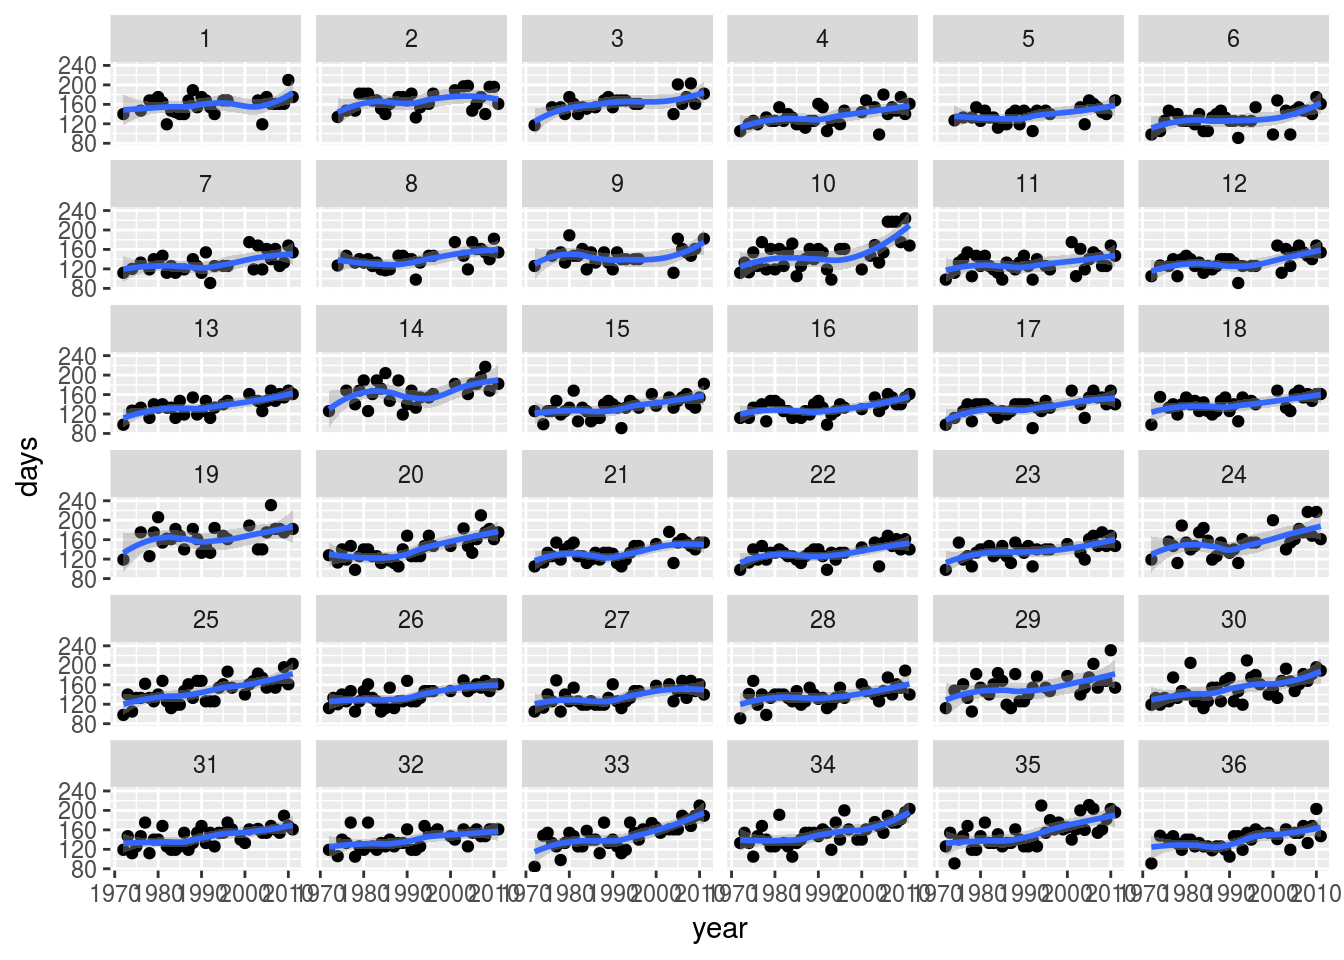
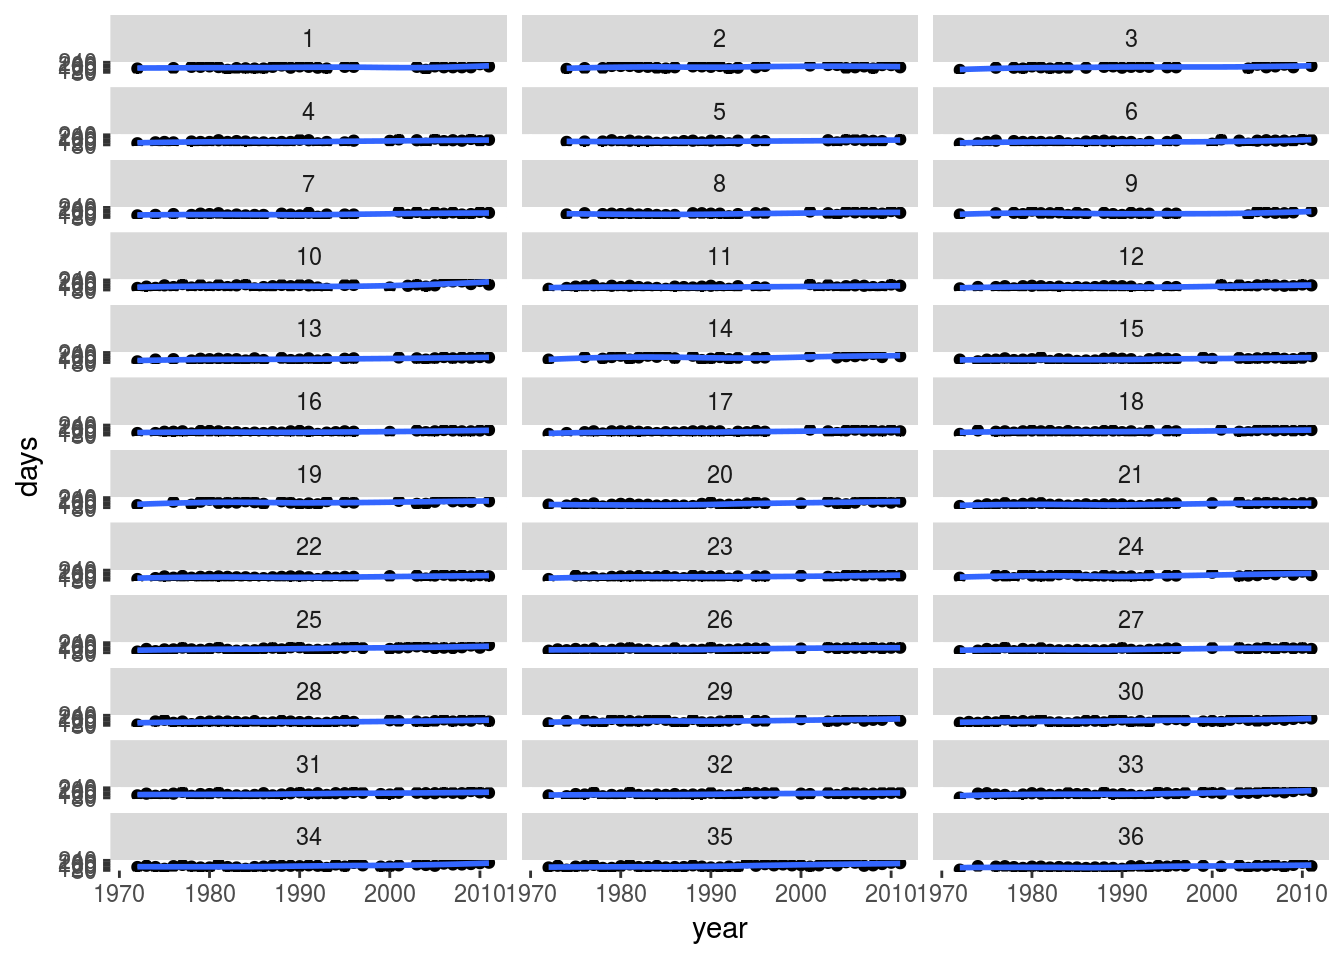
formatting

Changed region(s): [[0.0312, 0.0, 1.0, 0.9375]]

diff --git a/docs/2017/12/16/testing-for-time-trend/index.html b/docs/2017/12/16/testing-for-time-trend/index.html
@@ -167,7 +167,7 @@ xx=arima.sim(list(ar=0.8),100) </code></pre>
 <pre><code>## Don&#39;t know how to automatically pick scale for object of type ts. Defaulting to continuous.</code></pre>
 <pre><code>## `geom_smooth()` using method = &#39;loess&#39;</code></pre>
 <p><img src="../../../../post/2017-12-16-testing-for-time-trend_files/figure-html/unnamed-chunk-8-1.png" width="672" /></p>
-<p>This is autocorrelated: if it’s above the smooth trend, it’s more likely than not to stay there, and likewise below. We ought to be able to see the lag-1 autocorrelation that we built into the series. This was an AR series, so the appropriate plot is of the partial autocorrelation function:</p>
+<p>This is autocorrelated: if it’s above the smooth trend, it’s more likely than not to stay there, and likewise below. Note the long “excursions” above and below the trend. We ought to be able to see the lag-1 autocorrelation that we built into the series. This was an AR series, so the appropriate plot is of the partial autocorrelation function:</p>
 <pre class="r"><code>pacf(xx)</code></pre>
 <p><img src="../../../../post/2017-12-16-testing-for-time-trend_files/figure-html/unnamed-chunk-9-1.png" width="672" /></p>
 <p>The big spike is at lag 1, so we infer that we have an AR(1) series, which is what we generated.</p>
@@ -251,7 +251,7 @@ icefree_2</code></pre>
 <p>and then use it in a group-by and summarize. <code>knitr::kable</code> produces a nicely-formatted table:</p>
 <pre class="r"><code>icefree_2 %&gt;% group_by(location) %&gt;% 
   summarize(missing=nmiss(days)) %&gt;% 
-  knitr::kable()</code></pre>
+  knitr::kable(align=&quot;rr&quot;)</code></pre>
 <table>
 <thead>
 <tr class="header">
@@ -454,7 +454,7 @@ y</code></pre>
   do(test=kendall_Z_adjusted(.$days)) %&gt;%
   mutate(ratio=test$ratio,pval=test$P_value,padj=test$P_value_adj) %&gt;% 
   select(-test) %&gt;% 
-  knitr::kable()</code></pre>
+  knitr::kable(align=&quot;rrrr&quot;)</code></pre>
 <table>
 <thead>
 <tr class="header">
@@ -685,8 +685,8 @@ y</code></pre>
 </table>
 <p>Location 29 has a little positive autocorrelation. It isn’t large, but it’s enough to turn an apparently significant trend into a non-significant one.</p>
 <p>On the other hand, location 2 has a very negative autocorrelation. This turns a non-significant trend into a strongly significant one.</p>
-<p>Perhaps the most distressing conclusion here is that those adjusted P-values are mostly so small. At most of the locations, there is a significant trend in ice-free period. We finish with a plot that might be too small to see:</p>
-<pre class="r"><code>ggplot(icefree_2,aes(x=year,y=days))+geom_point()+geom_smooth()+facet_wrap(~location)</code></pre>
+<p>Perhaps the most distressing conclusion here is that those adjusted P-values are mostly so small. At most of the locations, there is a significant trend in ice-free period. We finish with a plot:</p>
+<pre class="r"><code>ggplot(icefree_2,aes(x=year,y=days))+geom_point()+geom_smooth()+facet_wrap(~location,ncol=3)</code></pre>
 <pre><code>## `geom_smooth()` using method = &#39;loess&#39;</code></pre>
 <pre><code>## Warning: Removed 290 rows containing non-finite values (stat_smooth).</code></pre>
 <pre><code>## Warning: Removed 290 rows containing missing values (geom_point).</code></pre>

diff --git a/content/post/2017-12-16-testing-for-time-trend.html b/content/post/2017-12-16-testing-for-time-trend.html
@@ -82,7 +82,7 @@ xx=arima.sim(list(ar=0.8),100) </code></pre>
 <pre><code>## Don&#39;t know how to automatically pick scale for object of type ts. Defaulting to continuous.</code></pre>
 <pre><code>## `geom_smooth()` using method = &#39;loess&#39;</code></pre>
 <p><img src="/post/2017-12-16-testing-for-time-trend_files/figure-html/unnamed-chunk-8-1.png" width="672" /></p>
-<p>This is autocorrelated: if it’s above the smooth trend, it’s more likely than not to stay there, and likewise below. We ought to be able to see the lag-1 autocorrelation that we built into the series. This was an AR series, so the appropriate plot is of the partial autocorrelation function:</p>
+<p>This is autocorrelated: if it’s above the smooth trend, it’s more likely than not to stay there, and likewise below. Note the long “excursions” above and below the trend. We ought to be able to see the lag-1 autocorrelation that we built into the series. This was an AR series, so the appropriate plot is of the partial autocorrelation function:</p>
 <pre class="r"><code>pacf(xx)</code></pre>
 <p><img src="/post/2017-12-16-testing-for-time-trend_files/figure-html/unnamed-chunk-9-1.png" width="672" /></p>
 <p>The big spike is at lag 1, so we infer that we have an AR(1) series, which is what we generated.</p>
@@ -166,7 +166,7 @@ icefree_2</code></pre>
 <p>and then use it in a group-by and summarize. <code>knitr::kable</code> produces a nicely-formatted table:</p>
 <pre class="r"><code>icefree_2 %&gt;% group_by(location) %&gt;% 
   summarize(missing=nmiss(days)) %&gt;% 
-  knitr::kable()</code></pre>
+  knitr::kable(align=&quot;rr&quot;)</code></pre>
 <table>
 <thead>
 <tr class="header">
@@ -369,7 +369,7 @@ y</code></pre>
   do(test=kendall_Z_adjusted(.$days)) %&gt;%
   mutate(ratio=test$ratio,pval=test$P_value,padj=test$P_value_adj) %&gt;% 
   select(-test) %&gt;% 
-  knitr::kable()</code></pre>
+  knitr::kable(align=&quot;rrrr&quot;)</code></pre>
 <table>
 <thead>
 <tr class="header">
@@ -600,8 +600,8 @@ y</code></pre>
 </table>
 <p>Location 29 has a little positive autocorrelation. It isn’t large, but it’s enough to turn an apparently significant trend into a non-significant one.</p>
 <p>On the other hand, location 2 has a very negative autocorrelation. This turns a non-significant trend into a strongly significant one.</p>
-<p>Perhaps the most distressing conclusion here is that those adjusted P-values are mostly so small. At most of the locations, there is a significant trend in ice-free period. We finish with a plot that might be too small to see:</p>
-<pre class="r"><code>ggplot(icefree_2,aes(x=year,y=days))+geom_point()+geom_smooth()+facet_wrap(~location)</code></pre>
+<p>Perhaps the most distressing conclusion here is that those adjusted P-values are mostly so small. At most of the locations, there is a significant trend in ice-free period. We finish with a plot:</p>
+<pre class="r"><code>ggplot(icefree_2,aes(x=year,y=days))+geom_point()+geom_smooth()+facet_wrap(~location,ncol=3)</code></pre>
 <pre><code>## `geom_smooth()` using method = &#39;loess&#39;</code></pre>
 <pre><code>## Warning: Removed 290 rows containing non-finite values (stat_smooth).</code></pre>
 <pre><code>## Warning: Removed 290 rows containing missing values (geom_point).</code></pre>
